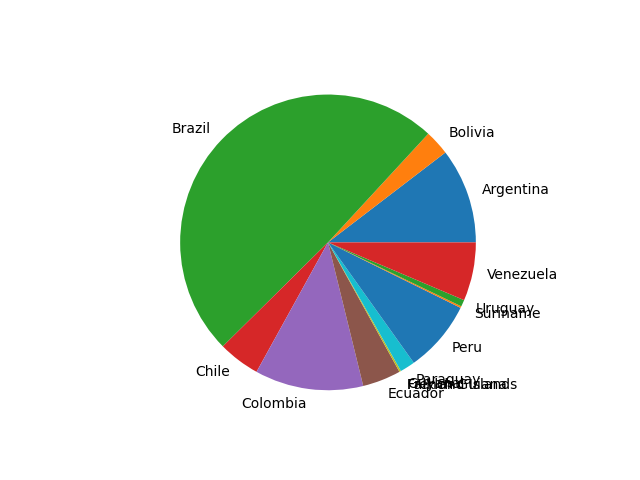
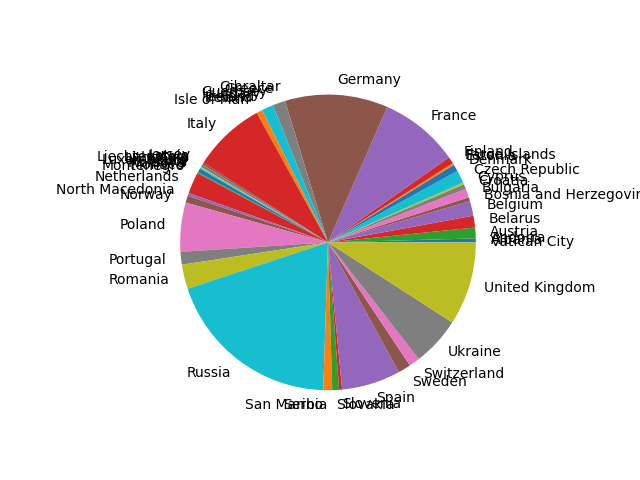
Actualizaciòn archivos

Changed region(s): [[0.0938, 0.1562, 1.0, 0.875]]

diff --git a/app/main.py b/app/main.py
@@ -1,9 +1,11 @@
 import utils
 import read_csv
 import charts
+import pandas as pd
 
 def run():
-  data = read_csv.read_csv('data.csv')
+  
+  '''data = read_csv.read_csv('data.csv')
   data = list(filter(lambda item : item['Continent'] == 'South America',data))
   print(data)
 
@@ -14,8 +16,17 @@ def run():
   percentages = list(map(lambda x: x['World Population Percentage'], data))
   print('-'*14)
   print(percentages)
+  '''
+
+  '''Utilizando Pandas'''
+  df = pd.read_csv('data.csv')
+  df = df[df['Continent'] == 'Europe']
+  countries = df['Country'].values
+  percentages = df['World Population Percentage'].values
+
   charts.generate_pie_chart(countries, percentages)
   print('-'*14)
+  data = read_csv.read_csv('data.csv')
   country = input('Type Country => ')
   print(country)
 

diff --git a/web-server/main.py b/web-server/main.py
@@ -1,0 +1,23 @@
+import store
+from fastapi import FastAPI
+from fastapi.responses import HTMLResponse
+
+app = FastAPI() #instancia
+
+
+@app.get('/') # decorador--> ruta desde la web se va ingresar
+def get_list():
+    return [10,11,12,13,14]
+
+
+@app.get('/contact', response_class=HTMLResponse) # decorador--> ruta desde la web se va ingresar
+def get_contact():
+    return '''<h1>Littles Turtles</h1>
+              <p>Primeros pasos de una Tortuga, iniciando en el mundo de la programacion?...</p>
+              '''
+
+def run():
+    store.get_categories()
+
+if __name__ == '__main__': # ejecutar como script
+    run()

diff --git a/web-server/store.py b/web-server/store.py
@@ -1,0 +1,12 @@
+import requests 
+
+
+def get_categories():       
+    r = requests.get('https://api.escuelajs.co/api/v1/categories') # direccion solicitud
+    print(r.status_code) # estado 200-> OK
+    print(r.text)
+    print(type(r.text)) # class str
+    categories = r.json() # tranformar en formato json (dict)
+    for category in categories:
+        print(category['name'])
+

diff --git a/charts/graficos.py b/charts/graficos.py
@@ -3,7 +3,7 @@ import matplotlib.pyplot as plt
 def generate_pie_chart():
     labels = ['A', 'B', 'C']
     values = [200,14,120]
-    fig, ax = plt.subplots()
+    #fig, ax = plt.subplots()
     plt.pie(values, labels=labels)
     plt.savefig('pie.png')
     plt.close()

diff --git a/app/charts.py b/app/charts.py
@@ -9,7 +9,7 @@ def generate_bar_chart(name, labels, values):
 def generate_pie_chart(labels, values):
   plt.pie(values, labels=labels)
   #plt.axis('equal')
-  plt.savefig('pie.png')
+  plt.savefig('chart_pie_final.png')
   plt.close()
 
 

diff --git a/app/example.py b/app/example.py
@@ -1,0 +1,4 @@
+import main
+
+print(main.data)
+main.run()
